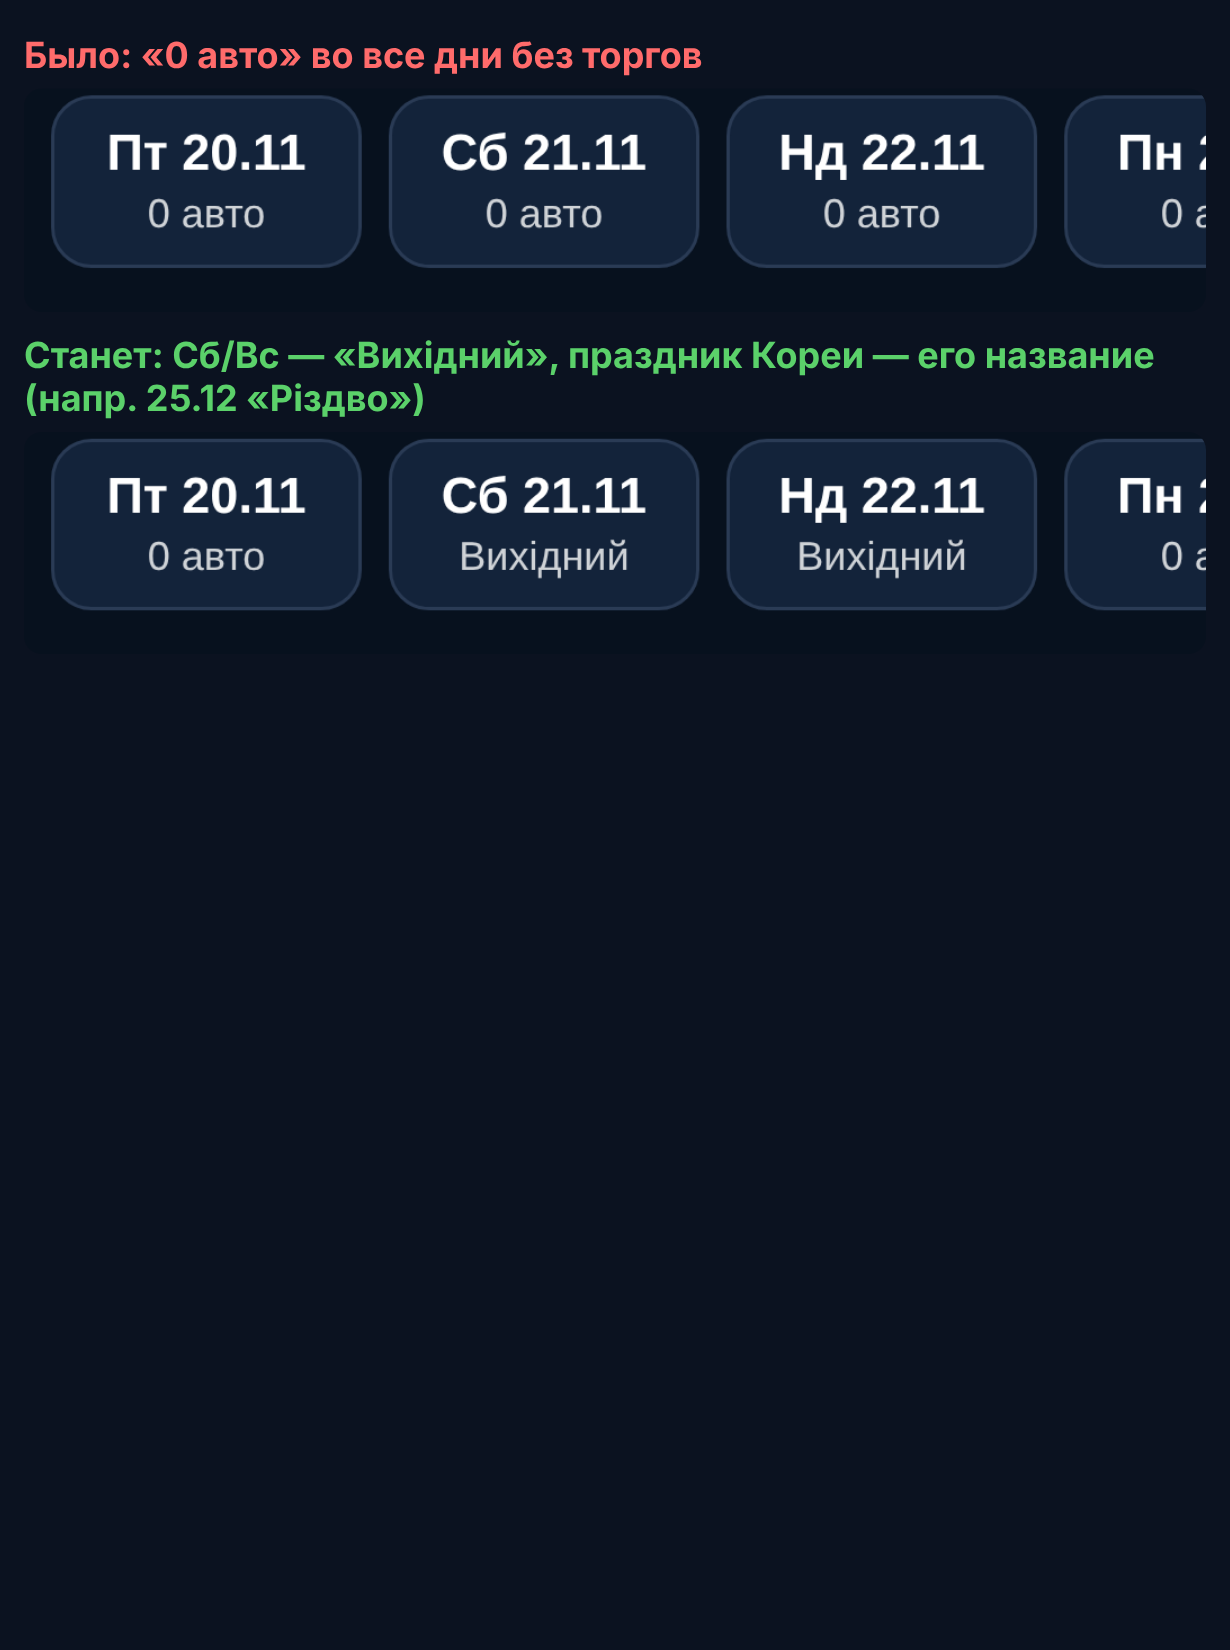
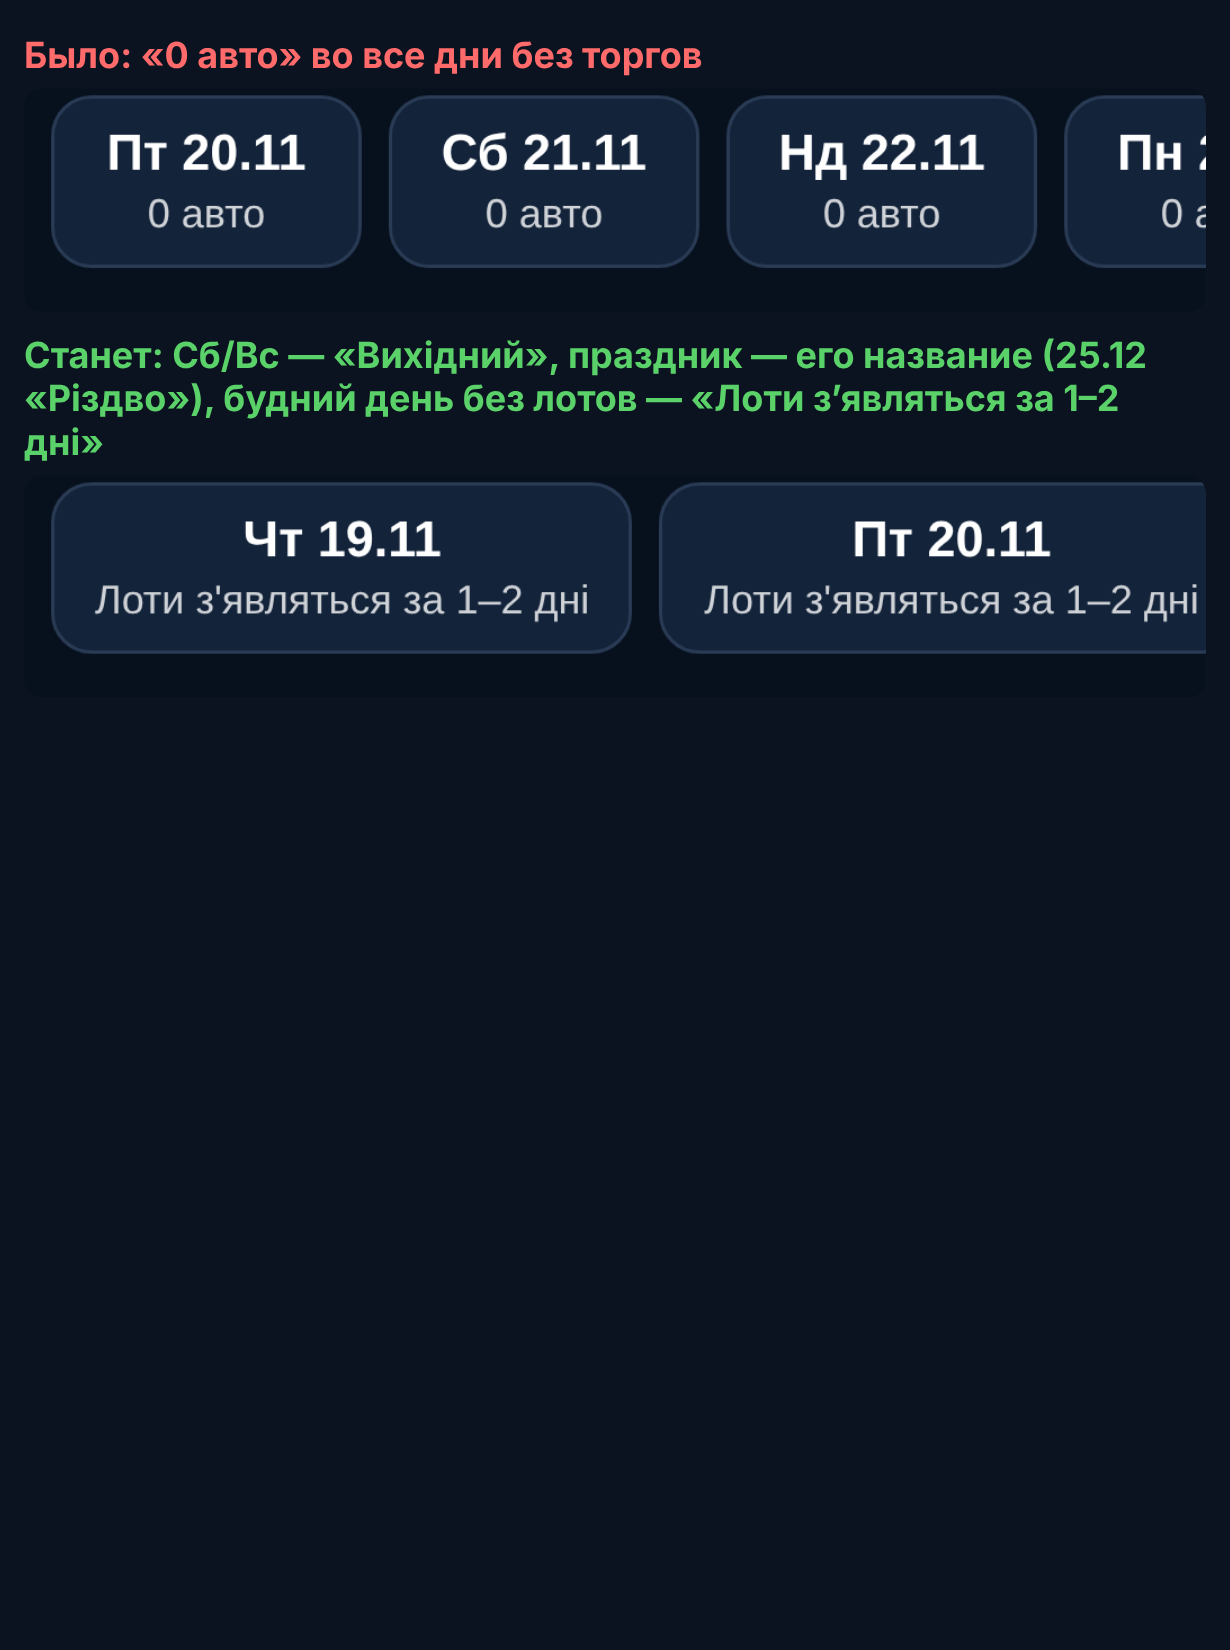
KOREA-HOLIDAYS-001: owner «1. Да 2. Да» — working days without lots say lots come in 1–2 days; preview request rebuilt (#1730)
Claude-Session: https://claude.ai/code/session_012KEXaYcE4crf4o5eBuAi7Z

Changed region(s): [[0.0, 0.1855, 0.9886, 0.4018]]

diff --git a/cloud/korea_holidays_001/day_reason_page.py b/cloud/korea_holidays_001/day_reason_page.py
@@ -1,7 +1,8 @@
 """Korea page day buttons: a day without auction lots says why (KOREA-HOLIDAYS-001, owner 2026-11-17).
 
 Instead of «0 авто»: a public holiday of Korea — its name (korea_holidays.HOLIDAYS, uk/ru/ka); Saturday or Sunday —
-«Вихідний». Any other day keeps «0 авто». A day with lots keeps its car count. Only the day buttons change; every other
+«Вихідний»; a later working day — «Лоти з'являться за 1–2 дні» (the auction lists lots one or two days ahead; owner «2. Да»).
+Today without lots keeps «0 авто» (there is no auction today). A day with lots keeps its car count. Only the day buttons change; every other
 byte of video/korea.html stays; each edit must match exactly once.
 """
 import json
@@ -10,6 +11,7 @@ import korea_holidays
 
 LABEL = '"days": ["Усі дні", "Все дни", "ყველა დღე"]'
 DAYOFF = ('Вихідний', 'Выходной', 'დასვენების დღე')
+SOON = ("Лоти з'являться за 1–2 дні", 'Лоты появятся за 1–2 дня', 'ლოტები გამოჩნდება 1–2 დღეში')
 COUNT = '"<small>"+n(c[d])+" "+t("cars")+"</small></button>";}).join("");}'
 DAYS = 'function days(){'
 
@@ -22,14 +24,17 @@ def _table():
 
 def edits():
     return (
-        (LABEL, LABEL + ', "dayoff": ["%s", "%s", "%s"]' % DAYOFF),
+        (LABEL, LABEL + ', "dayoff": ["%s", "%s", "%s"], "soon": ["%s", "%s", "%s"]' % (DAYOFF + SOON)),
         (COUNT, '"<small>"+reason(d,c)+"</small></button>";}).join("");}'),
         (DAYS, 'var HOL=' + _table() + ';'
-               # reason(day, cars per day): the car count, else the holiday name, else «Вихідний» on Sat/Sun, else 0
+               # reason(day, cars per day): the car count, else the holiday name, else «Вихідний» on Sat/Sun, else
+               # «Лоти з'являться…» for a later working day (today in Korea, UTC+9, keeps 0)
                'function reason(d,c){if(c[d])return n(c[d])+" "+t("cars");var h=HOL[d];'
                'if(h)return tri(function(i){return h[i];});'
                'var w=new Date(d.replace(/\\//g,"-")+"T00:00:00Z").getUTCDay();'
-               'return w===0||w===6?t("dayoff"):n(0)+" "+t("cars");}' + DAYS),
+               'if(w===0||w===6)return t("dayoff");'
+               'return d>new Date(Date.now()+324e5).toISOString().slice(0,10).replace(/-/g,"/")?t("soon"):n(0)+" "+t("cars");}'
+               + DAYS),
     )
 
 

diff --git a/cloud/korea_holidays_001/test_day_reason_page.py b/cloud/korea_holidays_001/test_day_reason_page.py
@@ -12,6 +12,7 @@ class DayReasonTest(unittest.TestCase):
         out = day_reason_page.build(LIVE).decode('utf-8')
         self.assertIn('"<small>"+reason(d,c)+"</small></button>"', out)
         self.assertIn('"dayoff": ["Вихідний", "Выходной", "დასვენების დღე"]', out)
+        self.assertIn('"soon": ["Лоти з\'являться за 1–2 дні", "Лоты появятся за 1–2 дня", "ლოტები გამოჩნდება 1–2 დღეში"]', out)
         self.assertIn('var HOL={"2026/12/25":["Різдво","Рождество","შობა"]};', out)
         self.assertIn('t("days")+"</b><small>"+n(lots.length)+" "+t("cars")', out)  # «Усі дні» keeps its count
         rest = out
